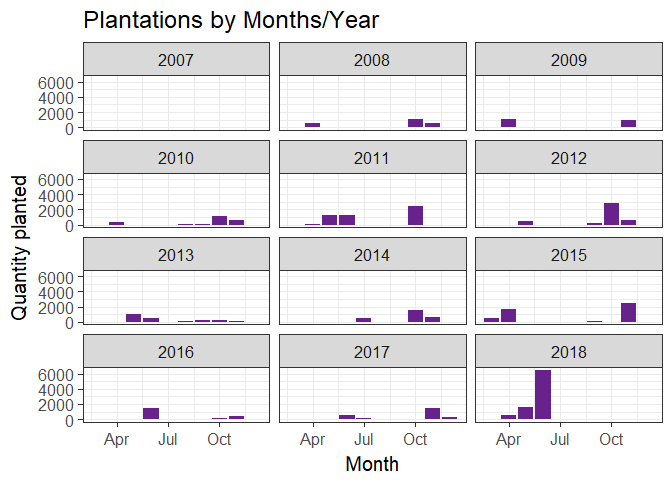
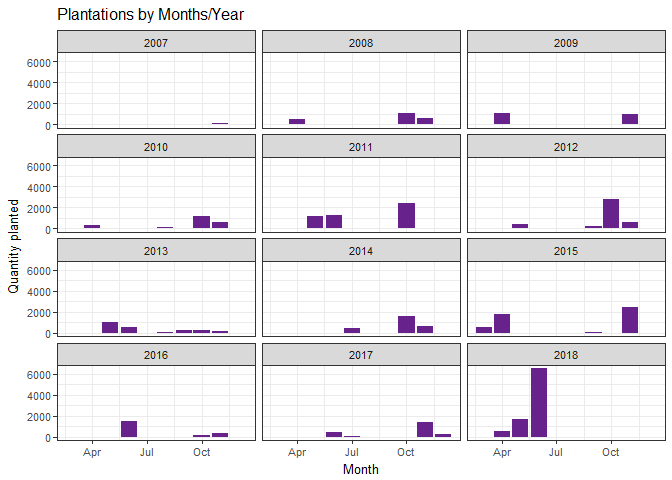
Modified/Added descriptions to plots

diff --git a/Deliverables/5 RScript/Analysis_and_plots.md b/Deliverables/5 RScript/Analysis_and_plots.md
@@ -5,6 +5,7 @@ Analysis using R
     -   [Reshaping the source table](#reshaping-the-source-table)
     -   [Plotting the number of species types by survey years](#plotting-the-number-of-species-types-by-survey-years)
 -   [Restoration Efforts over the years (2007-2018)](#restoration-efforts-over-the-years-2007-2018)
+    -   [Restoration Planting by Years](#restoration-planting-by-years)
 -   [Woody cover and Ground cover](#woody-cover-and-ground-cover)
     -   [Removing rows that have missing values in all columns except for first year (Year column)](#removing-rows-that-have-missing-values-in-all-columns-except-for-first-year-year-column)
     -   [Massaging the data](#massaging-the-data)
@@ -157,13 +158,16 @@ species_type_count
     ## 14 2016        Non-native/Non-invasive    42
 
 ``` r
-par(mar=c(0, 0, 2, 0), oma=c(0,0,2,0), mfrow=c(3,2))
+par(mar=c(0, 0, 2, 0), oma=c(0,0,2,0), mfrow=c(2,2))
 #Creating the pie for the year 2002
 for(i in levels(species_type_count$Survey.Year)){
-  count_2002 <- species_type_count[species_type_count$Survey.Year == i,-c(1)]
-  slices <- count_2002$n
+  if(i=='1937'){
+    next
+  }
+  count_i <- species_type_count[species_type_count$Survey.Year == i,-c(1)]
+  slices <- count_i$n
   
-  labels <-  count_2002$species_type
+  labels <-  count_i$species_type
   percent <- round(slices/sum(slices)*100, digits = 2)
   labels <- paste(labels, percent)
   labels <- paste(labels, "%", sep="")
@@ -172,9 +176,9 @@ for(i in levels(species_type_count$Survey.Year)){
 }
 ```
 
-    ## Warning in brewer.pal(length(labels), "Pastel1"): minimal value for n is 3, returning requested palette with 3 different levels
-
 ![](Analysis_and_plots_files/figure-markdown_github/cst_div_pies-1.png)
+
+If we analyze the charts above, we can see that the percentage of species found in NYBG has decreased for the survey years 2006(75% to 68%) and 2011(68% to 60%) from where it increased to 69% in the 2016 survey. Similar trends are also found in invasive species which increased from 16.6% in 2002 to 35% in 2011. The number of invasive species found in NYBG seems to have decrased by more than 10% in the survey year 2016. This is a good sign and reflects the success of the management efforts in invasive species control.
 
 Restoration Efforts over the years (2007-2018)
 ----------------------------------------------
@@ -255,7 +259,11 @@ pie(slices, labels, main="Plant types planted", col=brewer.pal(length(labels),"P
 
 ![](Analysis_and_plots_files/figure-markdown_github/plant_type-1.png)
 
-If we analyze these plant types and the quantities planted over the years
+57.44% of the restoration plantings were for Herbs followed by the Trees (35.5%). There have been plantation of Shrubs as well, even though the percentage is pretty less compared to the other two (7.06%)
+
+### Restoration Planting by Years
+
+If we summarise the planting by year, we can identify if the restoration efforts are consistent throughtout the period of study.
 
 ``` r
 #Adding a column for the year
@@ -271,7 +279,7 @@ res_qty_year <- restoration %>%
   group_by(year_planted) %>%
   summarise(Qty = sum(Qty))
 
-plot_qty_year <- ggplot(res_qty_year, aes(x=res_qty_year$year_planted, y=res_qty_year$Qty)) + geom_bar(stat = "identity") + 
+plot_qty_year <- ggplot(res_qty_year, aes(x=res_qty_year$year_planted, y=res_qty_year$Qty)) + geom_bar(stat = "identity", fill = "#2987bb") + 
   geom_text(y=res_qty_year$Qty+300 , label = res_qty_year$Qty) + 
   ggtitle("Restoration Planting by Years") + labs(x="Years", y="Plants planted") +
   theme_bw()
@@ -279,6 +287,23 @@ plot_qty_year
 ```
 
 ![](Analysis_and_plots_files/figure-markdown_github/quantities%20planted%20by%20year%20and%20month-1.png)
+
+From the plot, it is evident that the plantations are not consistent. Even with the possibility of incomplete data, we cannot ignore the fact that 2018 has been a very active year for forest restoration.
+
+``` r
+boxplot(res_qty_year$Qty, main = "Plants planted by years", xlab="Quantity", col = "#ec8a71")
+```
+
+![](Analysis_and_plots_files/figure-markdown_github/res_year_box-1.png)
+
+``` r
+quantile(res_qty_year$Qty)
+```
+
+    ##      0%     25%     50%     75%    100% 
+    ##  101.00 2125.25 2277.00 4284.50 8678.00
+
+The above figure confirms the scattered nature of the plantations, while the average plats planted is 2277, it has gone as low as 101 and as high as 8678.
 
 ``` r
 #Plantation by month and year
@@ -296,10 +321,12 @@ res_month %>%
     geom_bar(stat = "identity", fill = "darkorchid4") +
   facet_wrap(~year_planted, ncol = 3) +
     labs(title="Plantations by Months/Year", x="Month", y="Quantity planted")+
-  theme_bw(base_size = 15) + scale_x_date(date_labels = "%b")
+  theme_bw(base_size = 10) + scale_x_date(date_labels = "%b")
 ```
 
 ![](Analysis_and_plots_files/figure-markdown_github/qty_by_monthYear-1.png)
+
+Further, looking at the whole data monthly for all the years, the inconsistency in the plantation is more clear. There is no specific pattern in the plantations that has taken place except the fact that for all the years, there has been no restoration planting during the months December and January, during which the weather is extremely cold.
 
 Woody cover and Ground cover
 ----------------------------
